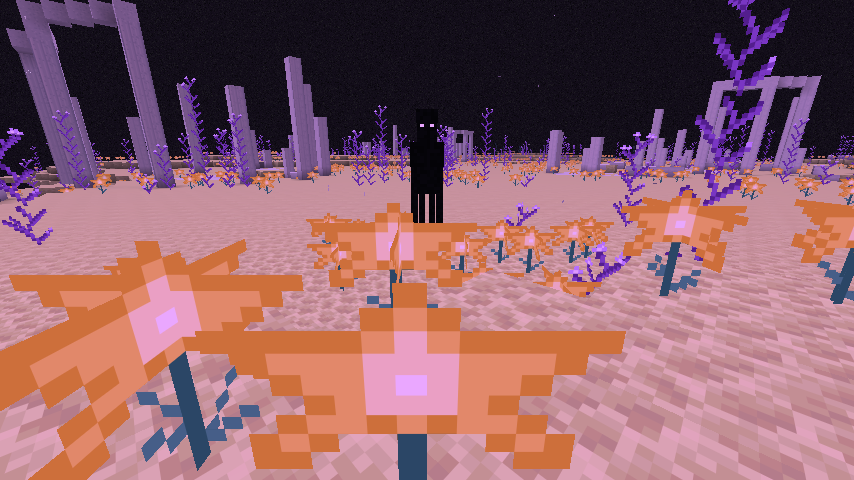
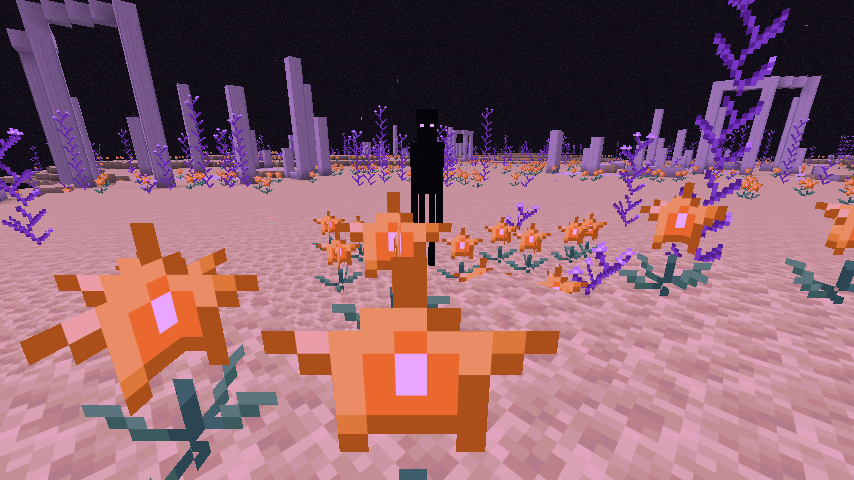
README pictures from the retextured world; Umbral Stalker photographed side-on
Claude-Session: https://claude.ai/code/session_0155WfD2TeFRTvCBedvK2Yiv

diff --git a/src/main/java/com/ggrantrichards/astralend/dev/WorldgenSurvey.java b/src/main/java/com/ggrantrichards/astralend/dev/WorldgenSurvey.java
@@ -339,8 +339,8 @@ public final class WorldgenSurvey {
         // One close-up of each mob, summoned in its home biome (see ClientScreenshots).
         mobShot(lines, areas.get('N'), end, "pollinator", 2.0, 1.0, 1.4);
         mobShot(lines, areas.get('R'), end, "void_wanderer", 2.6, 1.2, 1.7);
-        mobShot(lines, areas.get('D'), end, "umbral_stalker", 4.5, 0.0, 2.0);
-        mobShot(lines, areas.get('D'), end, "umbral_stalker lit", 4.5, 0.0, 2.0);
+        mobShot(lines, areas.get('D'), end, "umbral_stalker side", 4.5, 0.0, 2.0);
+        mobShot(lines, areas.get('D'), end, "umbral_stalker lit,side", 4.5, 0.0, 2.0);
         mobShot(lines, areas.get('C'), end, "cinder_mite", 1.5, 0.0, 0.7);
         mobShot(lines, areas.get('C'), end, "corona_skimmer", 3.0, 0.0, 1.6);
         mobShot(lines, areas.get('W'), end, "black_hole_guardian", 3.0, 1.6, 2.0);
@@ -373,7 +373,7 @@ public final class WorldgenSurvey {
         double eyeY = ground + eye;
         double camY = eyeY - 1.62;  // a teleport places the feet; the eyes are 1.62 higher
         double pitch = Math.toDegrees(Math.atan2(eyeY - (mobY + 0.5), distance));
-        String name = "mob_" + parts[0] + (parts.length > 1 ? "_" + parts[1] : "");
+        String name = "mob_" + parts[0] + (parts.length > 1 ? "_" + parts[1].split(",")[0] : "");
         lines.add(String.format(java.util.Locale.ROOT, "%s %.1f %.1f %.1f -45 %.1f astralend:%s %.1f %.1f %.1f%s", name,
             x + 0.5 - d, camY, z + 0.5 - d, pitch, parts[0], x + 0.5, mobY, z + 0.5, parts.length > 1 ? " " + parts[1] : ""));
     }

diff --git a/src/main/java/com/ggrantrichards/astralend/client/ClientScreenshots.java b/src/main/java/com/ggrantrichards/astralend/client/ClientScreenshots.java
@@ -39,7 +39,8 @@ public final class ClientScreenshots {
     private static final int MAX_WAIT_TICKS = 900;
 
     // A viewpoint; mob shots also name a mob to summon (with its AI off) at mobX/Y/Z, facing the
-    // camera. The optional last word: "lit" puts a Spore Lantern beside it, "side" turns it side-on.
+    // camera. The optional last word lists styles, comma-separated: "lit" puts a Spore Lantern beside
+    // it, "side" turns it side-on.
     private record Shot(String name, double x, double y, double z, float yaw, float pitch,
                         String mob, double mobX, double mobY, double mobZ, String style) {}
 
@@ -164,7 +165,7 @@ public final class ClientScreenshots {
             if (entity == null) {
                 return;
             }
-            float yaw = shot.style().equals("side") ? 45.0F : 135.0F;  // 135: facing the camera (north-west)
+            float yaw = shot.style().contains("side") ? 45.0F : 135.0F;  // 135: facing the camera (north-west)
             entity.snapTo(shot.mobX(), shot.mobY(), shot.mobZ(), yaw, 0.0F);
             entity.setYHeadRot(yaw);
             entity.setNoGravity(true);
@@ -175,7 +176,7 @@ public final class ClientScreenshots {
             }
             end.addFreshEntity(entity);
             summoned = entity;
-            if (shot.style().equals("lit")) {
+            if (shot.style().contains("lit")) {
                 lantern = at.east();
                 end.setBlock(lantern, ModBlocks.SPORE_LANTERN.get().defaultBlockState(), 3);
             }
